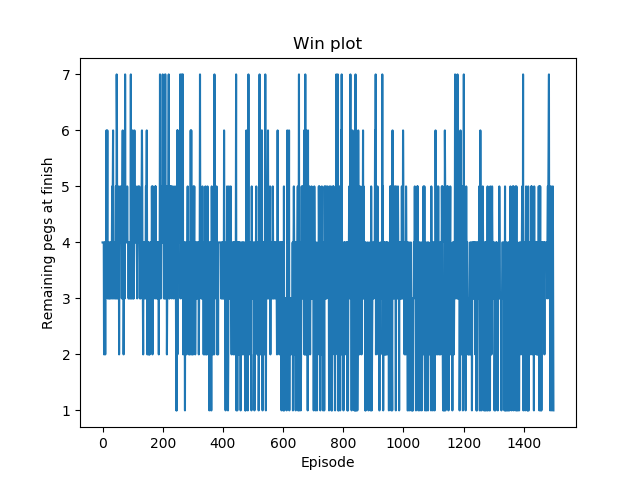
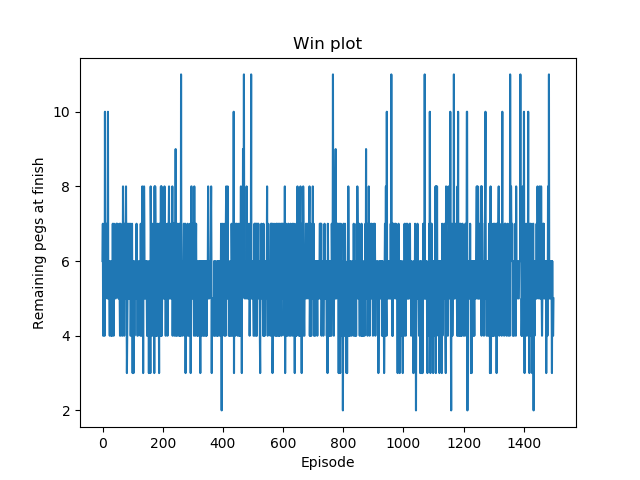
got the network to learn, but its not performing good yet. Unsure if I have implemented the eligibility correctly

diff --git a/actor_and_critic.py b/actor_and_critic.py
@@ -22,52 +22,61 @@ class NeuralCritic:
 
 
     def init_nn(self):
-        D_in = self.simWorld.num_cells
-        D0_out = math.floor(self.simWorld.num_cells/2)
-        D1_out = math.floor(D0_out/2)
+        L_1 = self.simWorld.num_cells
+        L_2 = int(L_1 / 2)
+        L_3 = int(L_2 / 2)
+        L_4 = int(L_3 / 2)
+        
         
         model = torch.nn.Sequential(
-            torch.nn.Linear(D_in, D0_out),
+            torch.nn.Linear(L_1, L_2),
             torch.nn.ReLU(),
-            torch.nn.Linear(D0_out, D1_out),
+            torch.nn.Linear(L_2, L_3),
+            torch.nn.ReLU(),
+            torch.nn.Linear(L_3, L_4),
+            torch.nn.ReLU(),
+            torch.nn.Linear(L_4, 1),
         )
+
         return model
 
-    def predict(self, x):
+    def loss_function(self, delta):
+        loss = torch.mean((delta)**2)
+        return loss
 
-        # y = r +γV(s')
-
+    def updateDelta(self, r, prevS, s):   
+   
+        prevS = self.pre_process_state(prevS)
+        s = self.pre_process_state(s)
         
-        y_pred = self.model(x)
-        print("y_pred: " + str(y_pred))
-        loss = self.loss_fn(y_pred, y)
-        print("loss: " + str(loss))
-        return y_pred
+        self.delta = r + self.gamma*self.model(s) - self.model(prevS)
 
+    def updateEligibility(self, s):
+        if not s in self.e:
+            self.e[s] = 0
+        self.e[s] = self.gamma*self.lamda*self.e[s]
 
-# class Net(nn.Module):
+    def updateValue(self, s):
+        if not s in self.e:
+            self.e[s] = 0
+        loss = self.loss_function(self.delta)
 
+        loss.backward(retain_graph=True)
 
+        # self.model(s) += self.alpha*self.delta*self.e[s]
+        return 0
+    
+    def getDelta(self):
+        return self.delta
 
-#     def forward(self, x):
-#         # Max pooling over a (2, 2) window
-#         x = F.max_pool2d(F.relu(self.conv1(x)), (2, 2))
-#         # If the size is a square you can only specify a single number
-#         x = F.max_pool2d(F.relu(self.conv2(x)), 2)
-#         x = x.view(-1, self.num_flat_features(x))
-#         x = F.relu(self.fc1(x))
-#         x = F.relu(self.fc2(x))
-#         x = self.fc3(x)
-#         return x
+    def pre_process_state(self, state):
 
-#     def num_flat_features(self, x):
-#         size = x.size()[1:]  # all dimensions except the batch dimension
-#         num_features = 1
-#         for s in size:
-#             num_features *= s
-#         return num_features
+        tensor_state = torch.zeros([len(state)])
+        
+        for i in range(len(state)):
+            tensor_state[i] = int(state[i])
 
-
+        return tensor_state
 
 class Critic:
     def __init__(self, simWorld, gamma, lamda, alpha):

diff --git a/simplePlayer.py b/simplePlayer.py
@@ -3,7 +3,7 @@ import sys
 import numpy as np
 from hexgames.hexGrid import HexGrid
 from simWorld import SimWorld
-from actor_and_critic import Actor, Critic
+from actor_and_critic import *
 import random
 
 import time
@@ -32,7 +32,7 @@ class SimplePlayer:
             self.simWorld = SimWorld(boardSize, boardType, visualization, winReward, loseReward, initial_position)
         else: 
             self.simWorld = env
-        self.critic = Critic(self.simWorld, gamma, lamda, alpha_c)
+        self.critic = NeuralCritic(self.simWorld, gamma, lamda, alpha_c)
         self.actor = Actor(self.simWorld, gamma, lamda, alpha_a)
 
         
@@ -143,7 +143,7 @@ if __name__ == "__main__":
     #Rewards for winning and losing:
     winReward = 100, loseReward = -10,
     #BoardType and size:
-    boardSize = 5, boardType = "triangle", visualization = True, initial_position = [2,1]
+    boardSize = 5, boardType = "triangle", visualization = False, initial_position = [2,1]
     )
 
     epsilon_0 = player.epsilon

diff --git a/generic_ac.py b/generic_ac.py
@@ -105,13 +105,13 @@ if __name__ == "__main__":
     winReward = 100, loseReward = -10,
     env = env,
     #BoardType and size:
-    boardSize = 5, boardType = "triangle", visualization = True, initial_position = [0,0]
+    boardSize = 7, boardType = "triangle", visualization = False, initial_position = [0,0]
     )
 
 
     epsilon_0 = player.epsilon
 
-    numEpisodes = 20000
+    numEpisodes = 2000
     test_every_x_episode = 50
     plot_and_save_every_x_episode = test_every_x_episode*10
 
